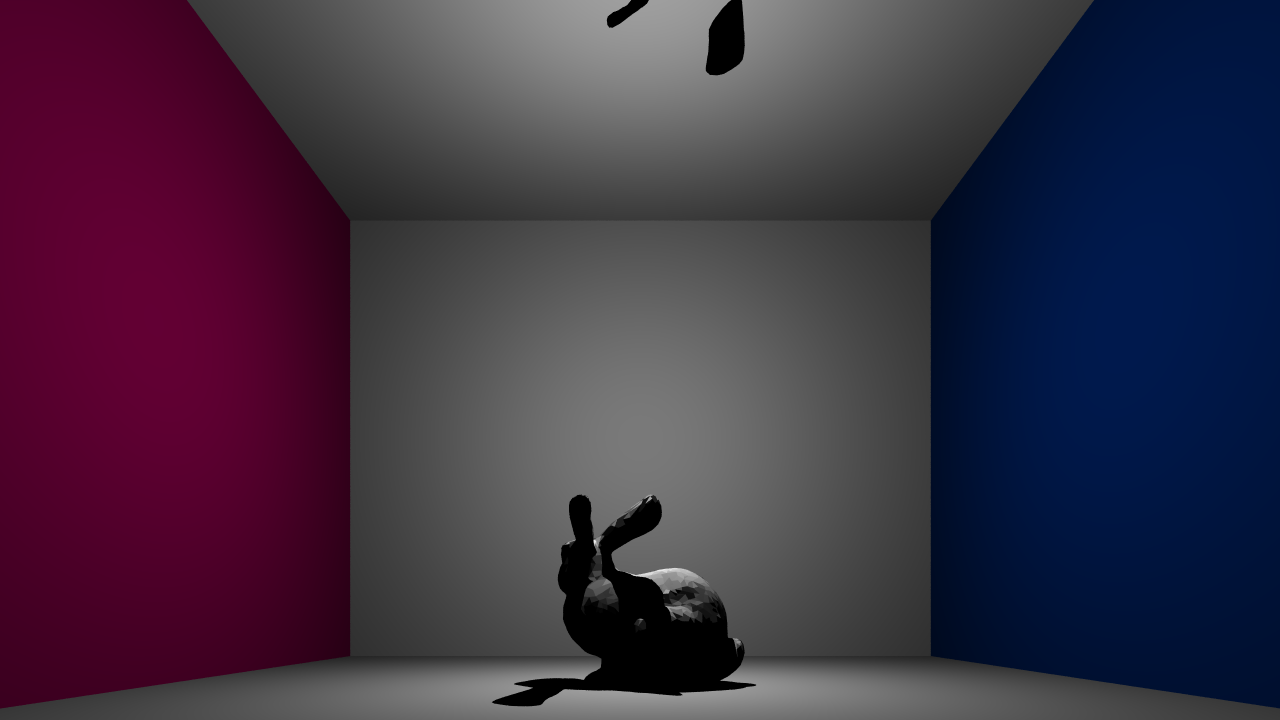
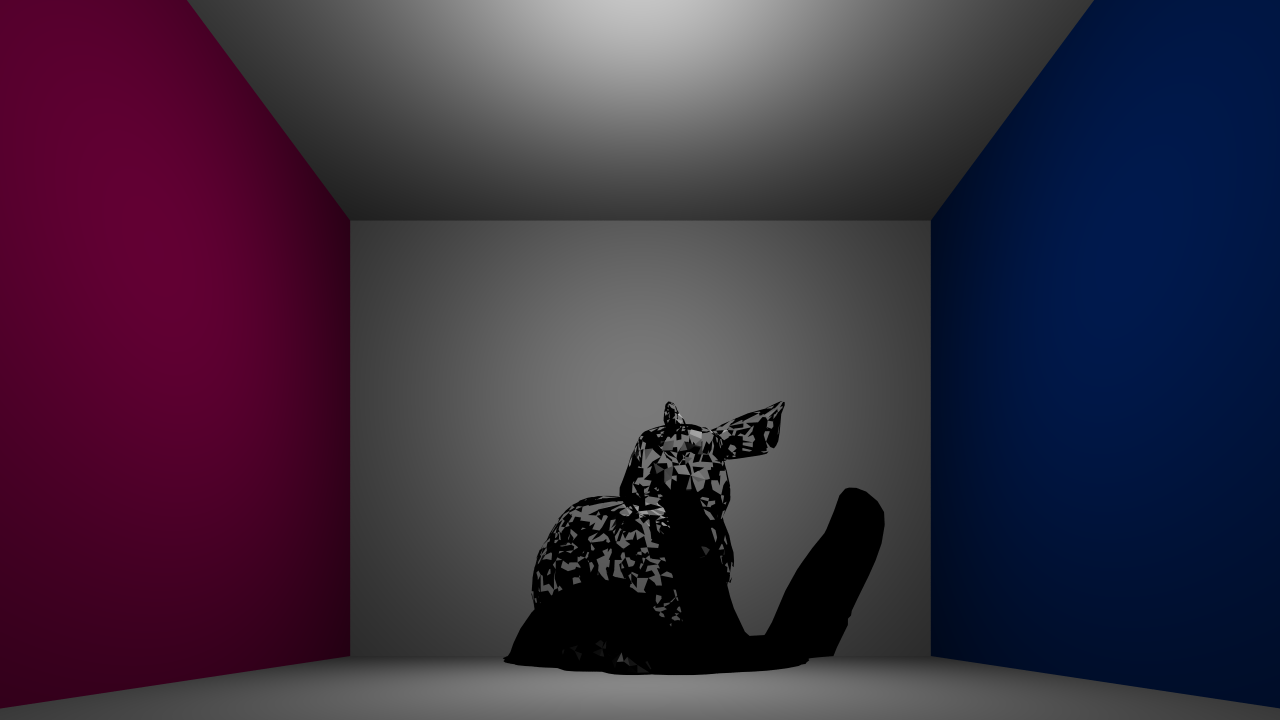
almost qbvh (half the triangles are there)

Changed region(s): [[0.375, 0.55, 0.7188, 0.9778], [0.4062, 0.0, 0.5938, 0.1222]]

diff --git a/Bvh.cpp b/Bvh.cpp
@@ -11,6 +11,13 @@ Bvh::Bvh(vector<Primitive> pri) {
         };
         bvhNodes.push_back(newNode);
     }
+
+    for (int i = 0; i < 2 * N; i++) {
+        QBVHNode newNode = {
+            float3(1e30f), float3(-1e30f), 0, 0
+        };
+        qbvhNodes.push_back(newNode);
+    }
     
     primitivesIndices.resize(N);
 }
@@ -27,6 +34,69 @@ void Bvh::BuildBVH()
     UpdateNodeBounds(rootNodeIdx);
     // subdivide recursively
     Subdivide(rootNodeIdx);
+}
+
+void Bvh::CollapseBVH(uint nodeIdx)
+{
+    BVHNode& node = bvhNodes[nodeIdx];
+    QBVHNode& newNode = qbvhNodes[nodeIdx];
+
+    if (node.isLeaf())
+    {
+        return;
+    }
+
+    int leftChildIdx = node.leftFirst;
+    BVHNode& leftChild = bvhNodes[leftChildIdx];
+
+    if (leftChild.isLeaf())
+    {
+        newNode.aabbMin[0] = leftChild.aabbMin;
+        newNode.aabbMax[0] = leftChild.aabbMax;
+        newNode.child[0] = leftChild.leftFirst;
+        newNode.count[0] = leftChild.primitivesCount;
+    }
+    else
+    {
+        newNode.aabbMin[0] = leftChild.aabbMin;
+        newNode.aabbMax[0] = leftChild.aabbMax;
+        newNode.child[0] = leftChildIdx;
+        newNode.count[0] = leftChild.primitivesCount;
+
+        newNode.aabbMin[1] = leftChild.aabbMin;
+        newNode.aabbMax[1] = leftChild.aabbMax;
+        newNode.child[1] = leftChild.leftFirst+1;
+        newNode.count[1] = leftChild.primitivesCount;
+
+        CollapseBVH(leftChild.leftFirst);
+        CollapseBVH(leftChild.leftFirst+1);
+    }
+
+    int rightChildIdx = node.leftFirst + 1;
+    BVHNode& rightChild = bvhNodes[rightChildIdx];
+
+    if (rightChild.isLeaf())
+    {
+        newNode.aabbMin[1] = rightChild.aabbMin;
+        newNode.aabbMax[1] = rightChild.aabbMax;
+        newNode.child[1] = rightChild.leftFirst;
+        newNode.count[1] = rightChild.primitivesCount;
+    }
+    else
+    {
+        newNode.aabbMin[2] = rightChild.aabbMin;
+        newNode.aabbMax[2] = rightChild.aabbMax;
+        newNode.child[2] = rightChild.leftFirst;
+        newNode.count[2] = rightChild.primitivesCount;
+
+        newNode.aabbMin[3] = rightChild.aabbMin;
+        newNode.aabbMax[3] = rightChild.aabbMax;
+        newNode.child[3] = rightChild.leftFirst + 1;
+        newNode.count[3] = rightChild.primitivesCount;
+
+        CollapseBVH(rightChild.leftFirst);
+        CollapseBVH(rightChild.leftFirst + 1);
+    }
 }
 
 void Bvh::UpdateNodeBounds(uint nodeIdx)
@@ -165,7 +235,6 @@ void Bvh::GetMiddleSplitPosition(BVHNode& node, float& bestPos, int& bestAxis)
 
 void Bvh::Subdivide(uint nodeIdx)
 {
-    // terminate recursion
     BVHNode& node = bvhNodes[nodeIdx];
     // determine split axis and position
     int axis;
@@ -200,6 +269,29 @@ void Bvh::Subdivide(uint nodeIdx)
     // recurse
     Subdivide(leftChildIdx);
     Subdivide(rightChildIdx);
+}
+
+void Bvh::IntersectQBVH(Ray& ray, const uint nodeIdx)
+{
+    QBVHNode& node = qbvhNodes[nodeIdx];
+    for (int c = 0; c < 4; c++)
+    {
+        if (node.child[c] == 0) continue;
+
+        if (node.count[c] > 0) // isLeaf
+        {
+            for (uint i = 0; i < node.count[c]; i++)
+            {
+                primitives[primitivesIndices[node.child[c] + i]].Intersect(ray);
+            }
+        }
+        else
+        {
+            if (!IntersectAABB(ray, node.aabbMin[c], node.aabbMax[c])) continue;
+
+            IntersectQBVH(ray, node.child[c]);
+        }
+    }
 }
 
 void Bvh::IntersectBVH(Ray& ray, const uint nodeIdx)
@@ -244,6 +336,18 @@ bool Bvh::IntersectAABB(const Ray& ray, const float3 bmin, const float3 bmax)
     float tz1 = (bmin.z - ray.O.z) / ray.D.z, tz2 = (bmax.z - ray.O.z) / ray.D.z;
     tmin = max(tmin, min(tz1, tz2)), tmax = min(tmax, max(tz1, tz2));
     return tmax >= tmin && tmin < ray.t && tmax > 0;
+}
+
+float Bvh::IntersectAABB_SSE(const Ray& ray, const __m128& bmin4, const __m128& bmax4)
+{
+    // "slab test" ray/AABB intersection, using SIMD instructions
+    static __m128 mask4 = _mm_cmpeq_ps(_mm_setzero_ps(), _mm_set_ps(1, 0, 0, 0));
+    __m128 t1 = _mm_mul_ps(_mm_sub_ps(_mm_and_ps(bmin4, mask4), ray.O4), ray.rD4);
+    __m128 t2 = _mm_mul_ps(_mm_sub_ps(_mm_and_ps(bmax4, mask4), ray.O4), ray.rD4);
+    __m128 vmax4 = _mm_max_ps(t1, t2), vmin4 = _mm_min_ps(t1, t2);
+    float tmax = min(vmax4.m128_f32[0], min(vmax4.m128_f32[1], vmax4.m128_f32[2]));
+    float tmin = max(vmin4.m128_f32[0], max(vmin4.m128_f32[1], vmin4.m128_f32[2]));
+    if (tmax >= tmin && tmin < ray.t && tmax > 0) return tmin; else return 1e30f;
 }
 
 bool Bvh::IntersectAABB(const float3& O, const float3& D, const float distToLight, const float3 bmin, const float3 bmax)

diff --git a/Scene.cpp b/Scene.cpp
@@ -50,11 +50,29 @@ Scene::Scene()
 	//primitives.push_back(sphere1);
 	Primitive sphere2 = { 2, ObjectType::SPHERE, float3(0), float3(1.f, -0.5f, 1.f), float3(0), float3(0), float3(0), 0.5f, 0.f, 0.f, whiteDiffuse};
 	//primitives.push_back(sphere2);
-	LoadModelNew(primitives.size(), "assets\\bunny.obj", whiteDiffuse, float3(0.0f, -2.f, 0.0f), 0.5f);
+	Primitive sphere3 = { 3, ObjectType::SPHERE, float3(0), float3(0.f, -0.5f, 0.f), float3(0), float3(0), float3(0), 0.5f, 0.f, 0.f, whiteDiffuse };
+	//primitives.push_back(sphere3);
+	Primitive sphere4 = { 4, ObjectType::SPHERE, float3(0), float3(-1.f, -0.5f, 0.f), float3(0), float3(0), float3(0), 0.5f, 0.f, 0.f, whiteDiffuse };
+	//primitives.push_back(sphere4);
+	Primitive sphere5 = { 5, ObjectType::SPHERE, float3(0), float3(1.f, -0.5f, 0.f), float3(0), float3(0), float3(0), 0.5f, 0.f, 0.f, whiteDiffuse };
+	//primitives.push_back(sphere5);
+	/*Primitive sphere6 = { 6, ObjectType::SPHERE, float3(0), float3(0.f, -0.5f, 1.f), float3(0), float3(0), float3(0), 0.5f, 0.f, 0.f, whiteDiffuse };
+	primitives.push_back(sphere6);
+	Primitive sphere7 = { 7, ObjectType::SPHERE, float3(0), float3(-1.f, -0.5f, 1.f), float3(0), float3(0), float3(0), 0.5f, 0.f, 0.f, whiteDiffuse };
+	primitives.push_back(sphere7);
+	Primitive sphere8 = { 8, ObjectType::SPHERE, float3(0), float3(1.f, -0.5f, 1.f), float3(0), float3(0), float3(0), 0.5f, 0.f, 0.f, whiteDiffuse };
+	primitives.push_back(sphere8);
+	Primitive sphere9 = { 9, ObjectType::SPHERE, float3(0), float3(0.f, -0.5f, 0.f), float3(0), float3(0), float3(0), 0.5f, 0.f, 0.f, whiteDiffuse };
+	primitives.push_back(sphere9);
+	Primitive sphere10 = { 10, ObjectType::SPHERE, float3(0), float3(-1.f, -0.5f, 0.f), float3(0), float3(0), float3(0), 0.5f, 0.f, 0.f, whiteDiffuse };
+	primitives.push_back(sphere10);
+	Primitive sphere11 = { 11, ObjectType::SPHERE, float3(0), float3(1.f, -0.5f, 0.f), float3(0), float3(0), float3(0), 0.5f, 0.f, 0.f, whiteDiffuse };
+	primitives.push_back(sphere11);*/
+	LoadModelNew(primitives.size(), "assets\\bunny.obj", whiteDiffuse, float3(0.0f, -1.f, 1.0f), 1.f);
 	//LoadModelNew(primitives.size(), "assets\\ChristmasTree.obj", greenDiffuse, float3(10.0f, -15.f, 10.0f), 0.01f);
 
 #ifdef WHITTED_STYLE
-	light = new Light(float3(0.f, 0.5f, 0.0f));
+	light = new Light(float3(0.f, 0.8f, 0.0f));
 #else
 	Primitive light1 = { primitives.size(), ObjectType::TRIANGLE, float3(0), float3(-1.5f, 1.8f, -1.5f), float3(1.5f, 1.8f, -1.5f), float3(1.5f, 1.8f, 1.5f), float3(0, -1, 0), 0.f, 0.f, 0.f, areaLight };
 	Primitive light2 = { primitives.size(), ObjectType::TRIANGLE, float3(0), float3(-1.5f, 1.8f, 1.5f), float3(-1.5f, 1.8f, -1.5f), float3(1.5f, 1.8f, 1.5f), float3(0, -1, 0), 0.f, 0.f, 0.f, areaLight };
@@ -64,6 +82,8 @@ Scene::Scene()
 
 	bvh = new Bvh(primitives);
 	bvh->BuildBVH();
+
+	bvh->CollapseBVH(Bvh::rootNodeIdx);
 }
 
 void Scene::FindNearest(Ray& ray)
@@ -72,7 +92,7 @@ void Scene::FindNearest(Ray& ray)
 	{
 		planes[i].Intersect(ray);
 	}
-	bvh->IntersectBVH(ray, Bvh::rootNodeIdx);
+	bvh->IntersectQBVH(ray, Bvh::rootNodeIdx);
 }
 
 bool Scene::IsOccluded(const Ray& ray)
@@ -243,7 +263,7 @@ void Scene::LoadModel(int idx, const char* fileName, Material material, const fl
 
 void Scene::LoadModelNew(int triIdx, const char* fileName, Material material, const float3& offset, float scale)
 {
-	mat4 rotate = mat4::RotateY(0);
+	mat4 rotate = mat4::RotateY(180);
 	mat4 transform = mat4::Translate(offset.x, offset.y, offset.z) * rotate;
 	std::string inputfile = fileName;
 	tinyobj::ObjReaderConfig reader_config;

diff --git a/Bvh.h b/Bvh.h
@@ -8,6 +8,12 @@ __declspec(align(32)) struct BVHNode
 	bool isLeaf() { return primitivesCount > 0; }
 };
 
+__declspec(align(128)) struct QBVHNode {
+	float3 aabbMin[4];
+	float3 aabbMax[4];
+	int child[4], count[4];
+};
+
 struct Primitive { 
 	int index; ObjectType type; float3 centroid; float3 v1; float3 v2; float3 v3; float3 n; float size; float u; float v; Material material;
 	void CalculateCentroid()
@@ -201,14 +207,18 @@ class Bvh
 public:
 	Bvh(vector<Primitive> primitives);
 	void	BuildBVH();
+	void	CollapseBVH(uint nodeIdx);
 	void	UpdateNodeBounds(uint nodeIdx);
 	float	CalculateNodeCost(const BVHNode& node);
 	void	GetMiddleSplitPosition(BVHNode& node, float& bestPos, int& bestAxis);
 	float	FindBestSplitPlane(BVHNode& node, float& splitPos, int& axis);
 	void	Subdivide(uint nodeIdx);
+	void	ResetNodesUsed();
 	void	IntersectBVH(Ray& ray, const uint nodeIdx);
+	void	IntersectQBVH(Ray& ray, const uint nodeIdx);
 	void	IntersectBVH(const float3& O, const float3& D, const uint nodeIdx, const float distToLight, bool& hitPrimitive);
 	bool	IntersectAABB(const Ray& ray, const float3 bmin, const float3 bmax);
+	float	IntersectAABB_SSE(const Ray& ray, const __m128& bmin4, const __m128& bmax4);
 	bool	IntersectAABB(const float3& O, const float3& D, const float distToLight, const float3 bmin, const float3 bmax);
 public:
 	static const uint rootNodeIdx = 0;
@@ -216,5 +226,6 @@ public:
 	std::vector<Primitive> primitives;
 	int N;
 	std::vector<BVHNode> bvhNodes;
+	std::vector<QBVHNode> qbvhNodes;
 	std::vector<int> primitivesIndices;
 };

diff --git a/template/precomp.h b/template/precomp.h
@@ -975,7 +975,7 @@ public:
 			union { __m128 bmin4; float bmin[4]; struct { float3 bmin3; }; };
 			union { __m128 bmax4; float bmax[4]; struct { float3 bmax3; }; };
 		};
-		__m128 bounds[2] = { _mm_set_ps( 1e34f, 1e34f, 1e34f, 0 ), _mm_set_ps( -1e34f, -1e34f, -1e34f, 0 ) };
+		__m128 bounds[2] = { _mm_set_ps( 1e34f, 1e34f, 1e34f, 1e34f ), _mm_set_ps( -1e34f, -1e34f, -1e34f, -1e34f ) };
 	};
 	__inline void SetBounds( const __m128 min4, const __m128 max4 ) { bmin4 = min4; bmax4 = max4; }
 	__inline __m128 Center() const { return _mm_mul_ps( _mm_add_ps( bmin4, bmax4 ), _mm_set_ps1( 0.5f ) ); }

diff --git a/renderer.cpp b/renderer.cpp
@@ -18,7 +18,7 @@ void Renderer::Init()
 float3 Renderer::Trace( Ray& ray, int depth )
 {
 	scene->FindNearest(ray);
-	if (ray.objIdx == -1 || depth == 15) return 0;// scene->GetSkydomeTexture(ray); // or a fancy sky color
+	if (ray.objIdx == -1 || depth == 20) return 0;// scene->GetSkydomeTexture(ray); // or a fancy sky color
 	float3 I = ray.O + ray.t * ray.D;
 	float3 N = scene->GetNormal(ray);
 	/* visualize normal */ // return (N + 1) * 0.5f;
